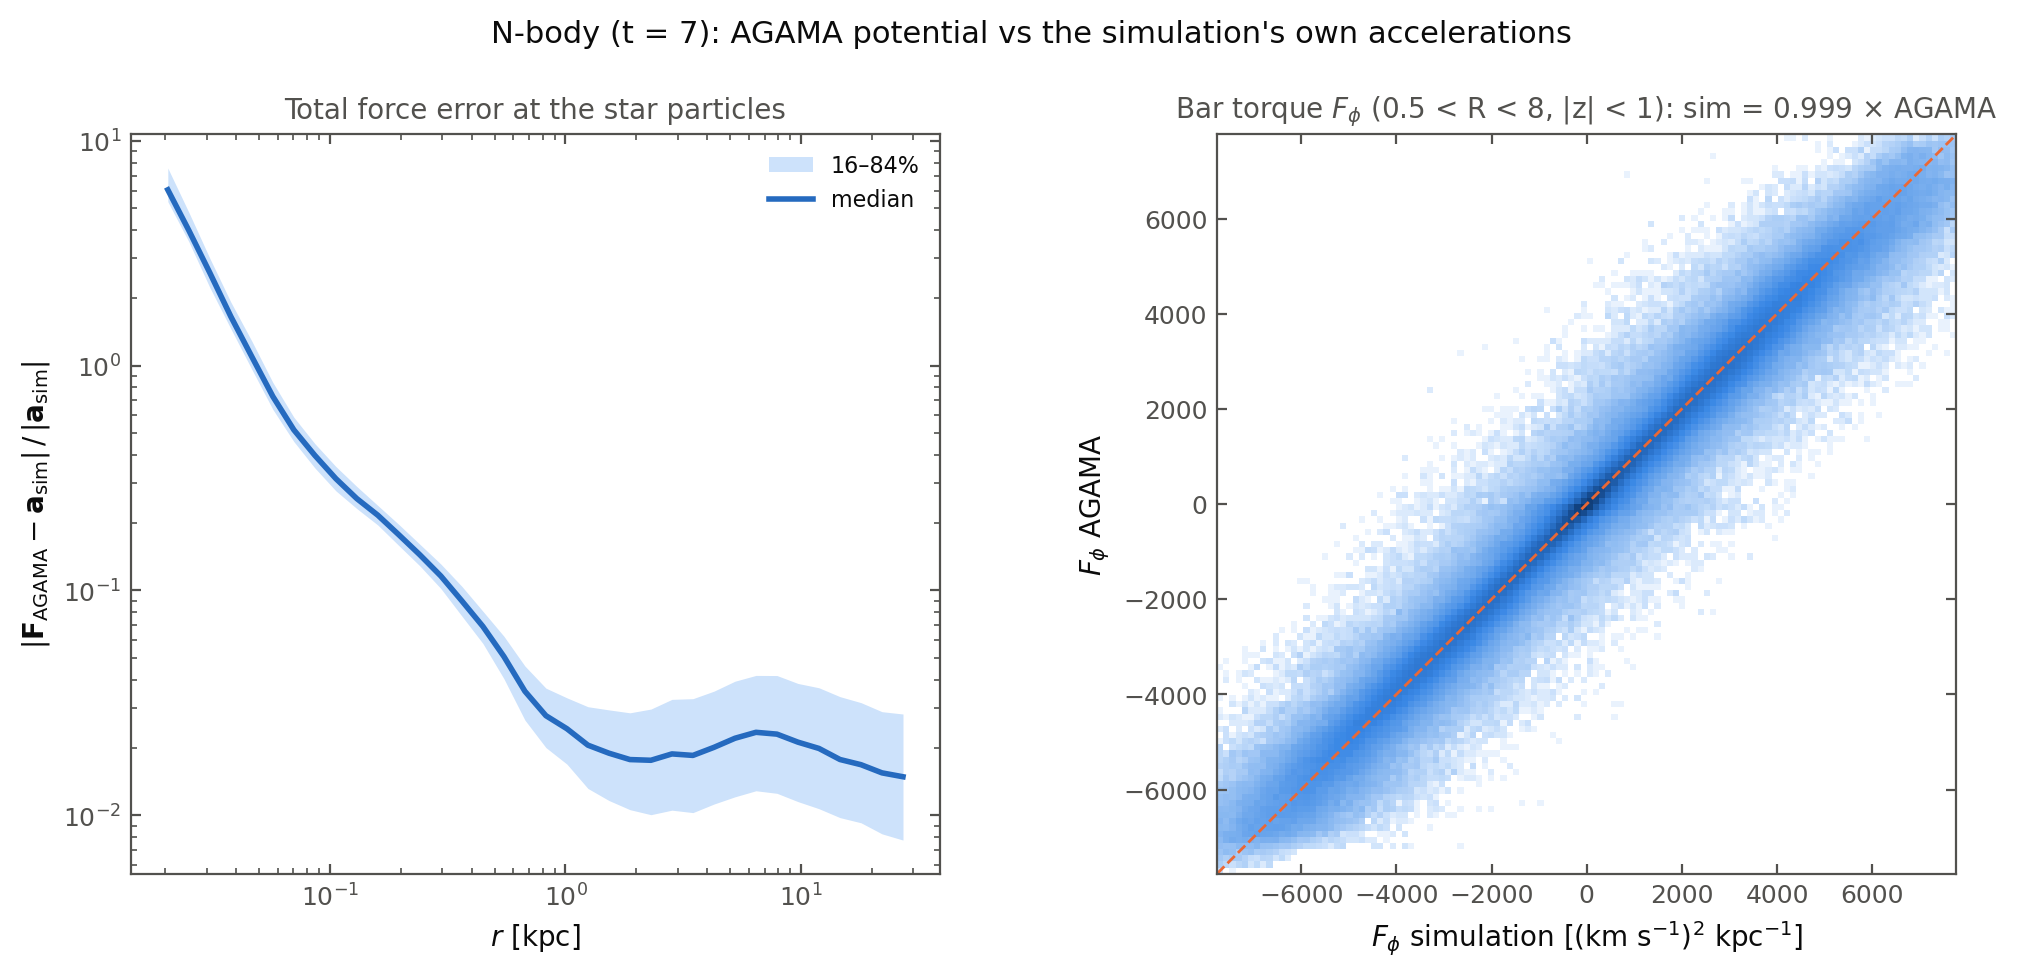
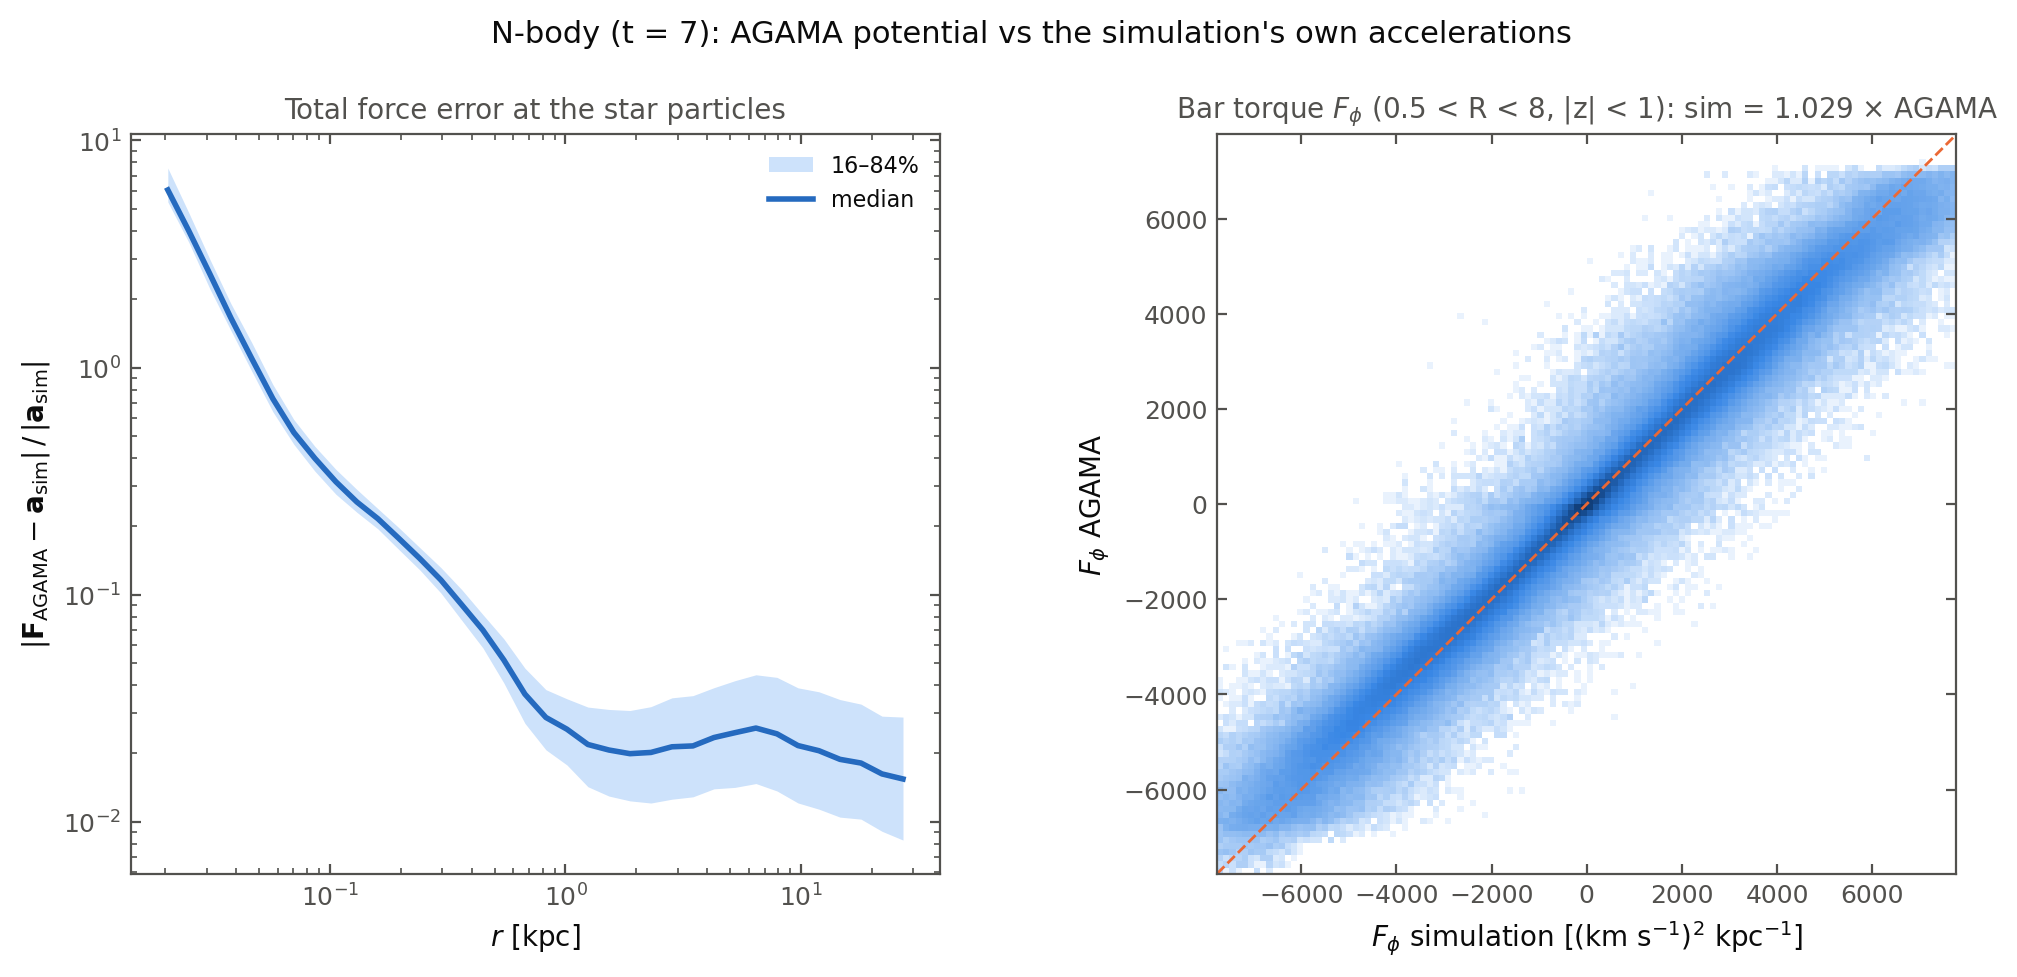
N-body ground truth: use the spherical DM halo (MW set-up)
Checks rerun: torque sim = 1.029 x AGAMA (halo bar response dropped), outer-disc F_z 2.5% low.

diff --git a/scripts/build_nbody_potential.py b/scripts/build_nbody_potential.py
@@ -1,8 +1,8 @@
 """Ground-truth potential of the isolated N-body galaxy in the MW-like frame (AGAMA; Msun, kpc, km/s).
 
 Components (split as in AGAMA's py/example_actions_nbody.py: spheroids as Multipole, disc as CylSpline):
-  dm     Multipole, no symmetry, lmax 8  (keeps the halo's response to the bar); alternatives:
-         dm_axisymmetric.ini (flattening kept, m != 0 dropped) and dm_spherical.ini (lmax 0)
+  dm_spherical  Multipole, spherical: the ground-truth halo (the intended MW set-up has a spherical halo)
+  alternatives: dm.ini (no symmetry, lmax 8, keeps the halo's bar response) and dm_axisymmetric.ini
   bulge  Multipole, no symmetry, lmax 8
   disc   CylSpline, no symmetry, mmax 8, with the grids used for Au18 (python_script/Nexus/get_potential*.py),
          zmax = Rmax so that the grid encloses the sphere r < Rmax

diff --git a/scripts/galaxies.py b/scripts/galaxies.py
@@ -16,7 +16,8 @@ GALAXIES = {
                  checks=ROOT / "results" / "au18_potential_checks.json"),
     "nbody": dict(label="N-body (t = 7)", prefix="nbody",
                   stars=MOCK_DIR / "nbody_stars_mwframe.hdf5", dm=MOCK_DIR / "nbody_dm_mwframe.hdf5",
-                  pot_dir=MOCK_DIR / "nbody_potential", components=("dm", "bulge", "disc"),
+                  # spherical DM halo, as in the intended MW set-up (dm.ini / dm_axisymmetric.ini are alternatives)
+                  pot_dir=MOCK_DIR / "nbody_potential", components=("dm_spherical", "bulge", "disc"),
                   truth=ROOT / "results" / "nbody_ground_truth.json",
                   checks=ROOT / "results" / "nbody_potential_checks.json"),
 }

diff --git a/PROGRESS.md b/PROGRESS.md
@@ -431,6 +431,17 @@ Small numeric results (tracked): `results/au18_ground_truth.json` (pattern speed
   - Conclusion: a spherical halo underestimates the vertical force in the disc by 2.5%, enough to
     put stars slightly out of vertical equilibrium. An axisymmetric halo is accurate vertically
     but drops the 3% DM share of the bar torque.
+- **Decision (2026-10-27, user):** the N-body ground truth uses the **spherical DM halo**
+  (`dm_spherical.ini`), because the MW set-up will use a spherical halo. The registry was updated
+  (`components = dm_spherical, bulge, disc`) and the checks and resonances rerun.
+  - v_c(8 kpc) = 221.6 km/s; the Jeans check and density checks are unchanged.
+  - Potential residual vs the simulation: 504 (km/s)² rms.
+  - Bar torque: simulation = 1.029 × AGAMA.
+  - R_CR = 8.61 kpc.
+  - Known, deliberate mismatches with what the stars feel: the vertical force in the outer disc
+    is 2.5% low, and the halo's 3% share of the bar torque is missing. Expect bar_frac to come
+    out about 3% above 1 and possibly small vertical non-stationarity, a realistic level of
+    model mismatch for the MW.
 - Pattern speed (Dehnen et al. 2023 method, `results/nbody_ground_truth.json`,
   [figure](figures/nbody_pattern_speed.png)):
   - **Ω_p = 26.02 ± 0.19 km/s/kpc**, using the automatic bar region 0.57–6.28 kpc. Fixed ranges
